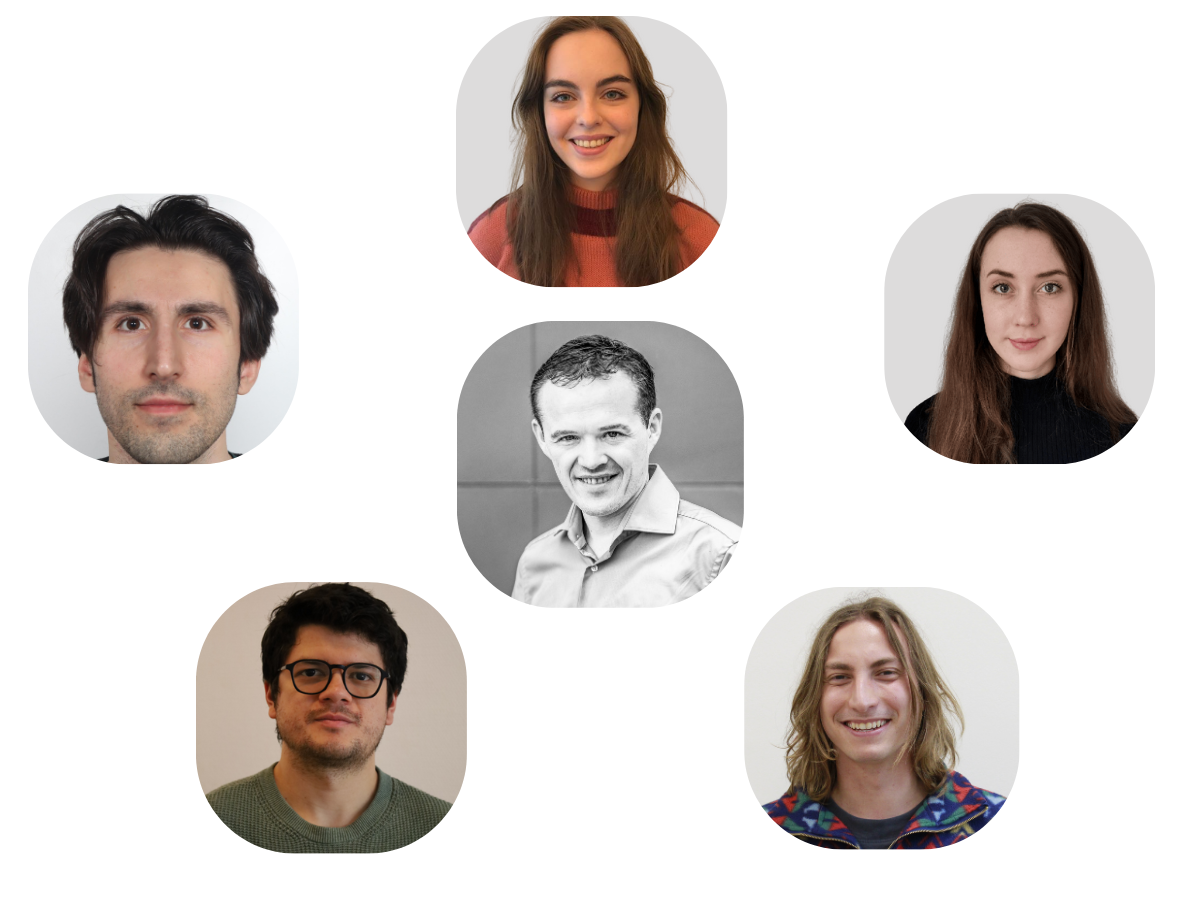
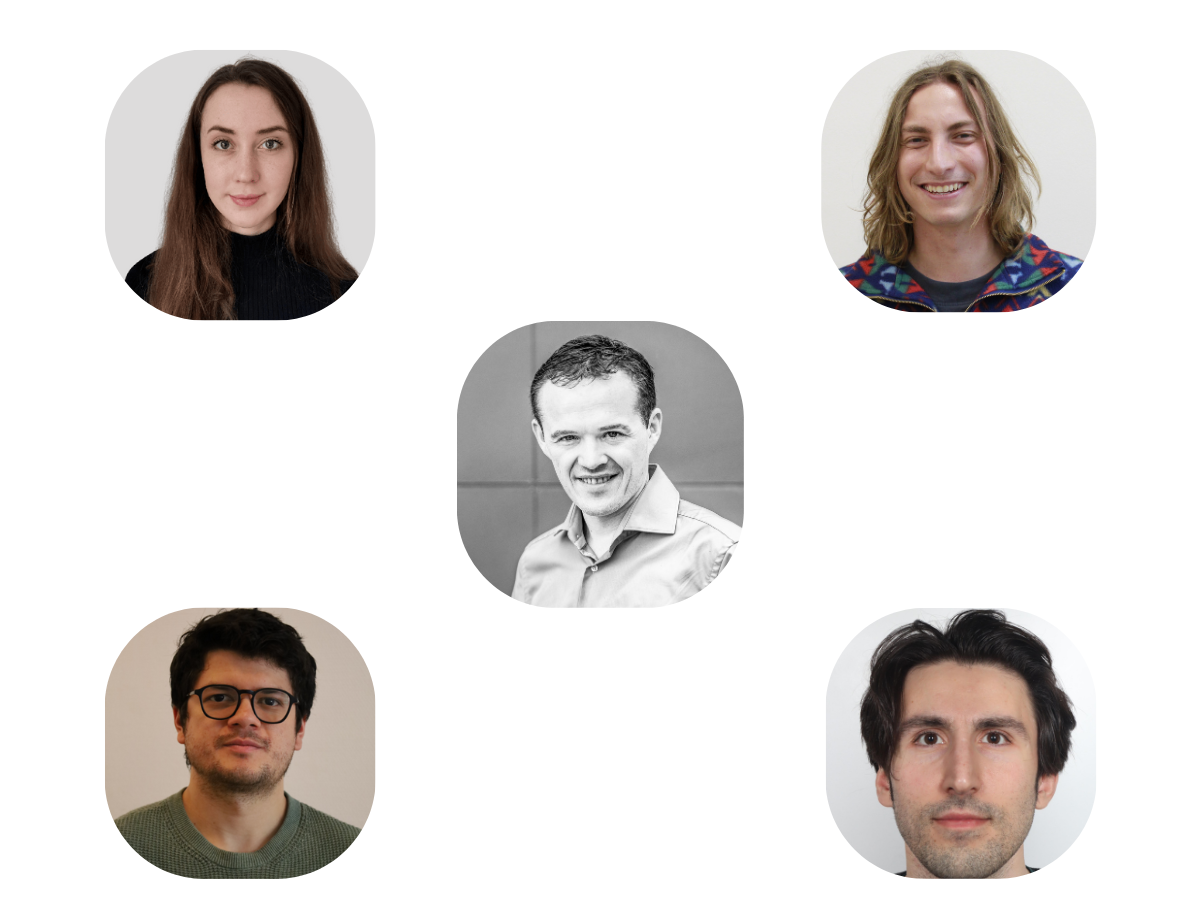
Lauren defense update

diff --git a/_posts/2025-11-17-LaurenDefense.md b/_posts/2025-11-17-LaurenDefense.md
@@ -1,0 +1,11 @@
+---
+title: Lauren Theunissen defends her PhD Thesis titled Addressing Uncertainty in Automatic Cell Type Annotation of Single-Cell Transcriptomics Data
+tags: machine-learning, cell-type-annotation, transcriptomics, biological-data, uncertainty
+author: Lauren Theunissen
+member: lauren-theunissen
+image: images/laurendefense.png
+---
+
+On Monday, November 17th, Lauren Theunissen successfully defended her PhD thesis titled "Addressing Uncertainty in Automatic Cell Type Annotation of Single-Cell Transcriptomics Data". 
+Her research focused on translating theoretical uncertainty research into practical applications, specifically in the context of automatic cell type annotation of single-cell transcriptomics data.
+We congratulate Lauren on this significant achievement and wish her the best in her future endeavors!

diff --git a/_members/lauren-theunissen.md b/_members/lauren-theunissen.md
@@ -2,7 +2,7 @@
 name: Lauren Theunissen
 image: images/Lauren_Theunissen.png
 description:
-role: phd
+role: exmember
 aliases:
   - Lauren Theunissen
 links:
